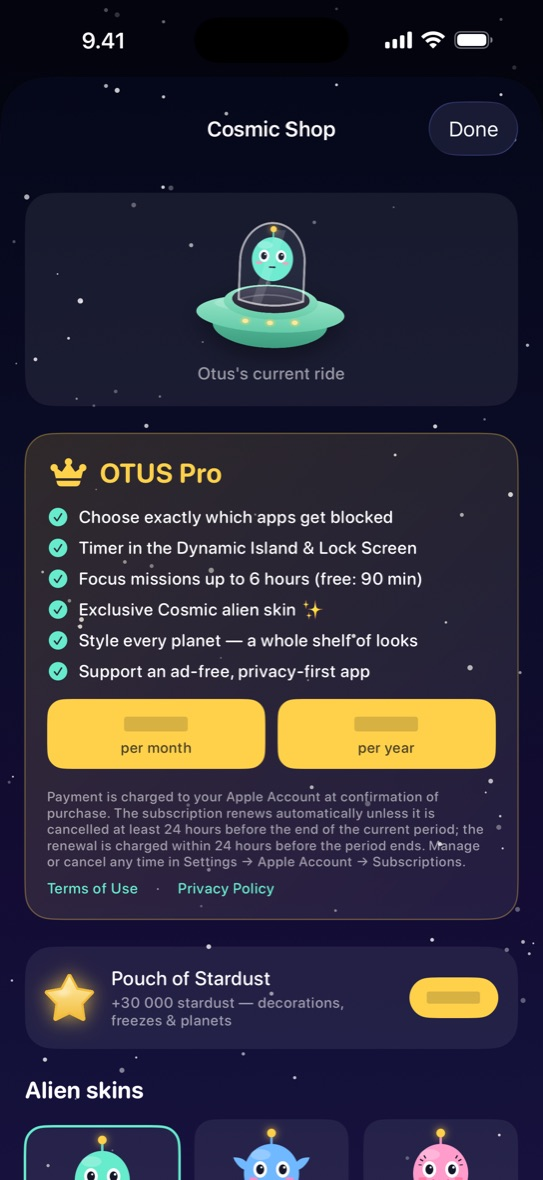
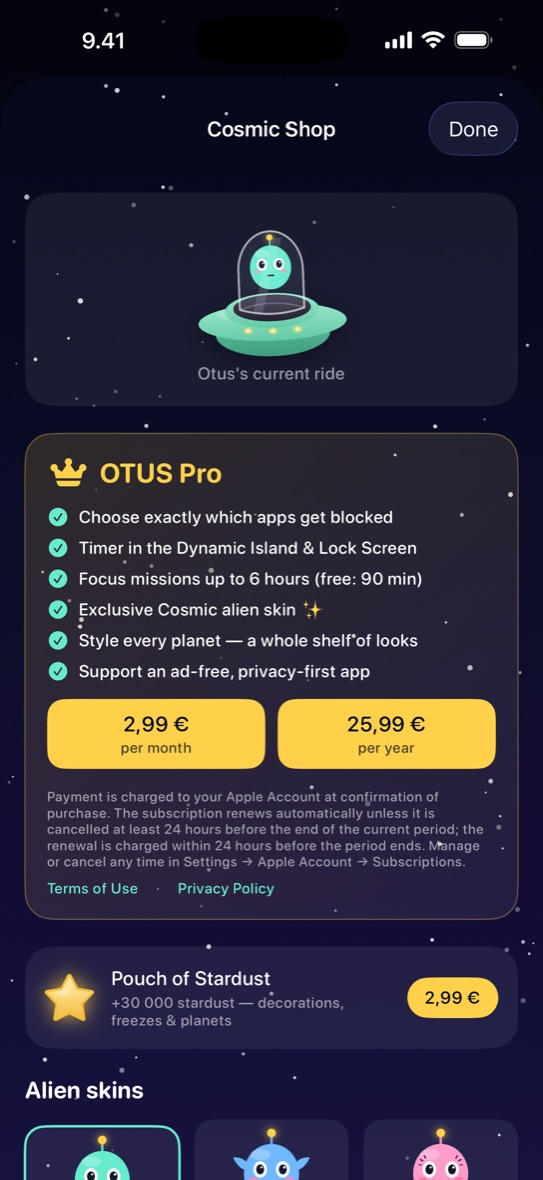
Refresh the OTUS shots, and add the skins shelf
Every screen was carrying the old Streaks tab icon, and the shop shot
showed redaction bars where its prices sit — the app only knows a price
when StoreKit answers, which it cannot do outside Xcode, so the capture
script now supplies them.

Ninth shot is the shop's alien skins shelf: all thirteen with their
prices, which nothing else on the page shows.

Regenerated from the app repo's screenshots/raw/ at 1180px, JPEG 80, as
README describes — never from marketing/, whose frames would arrive as a
phone inside this page's own phone.

diff --git a/_apps/otus/index.md b/_apps/otus/index.md
@@ -42,6 +42,8 @@ screenshots:
     alt: "The cosmic shop"
   - src: /assets/apps/otus/shot-08.jpg
     alt: "Otus riding the water lily"
+  - src: /assets/apps/otus/shot-09.jpg
+    alt: "The shop's alien skins shelf, all thirteen with their prices"
 
 features:
   - icon: "🛸"
